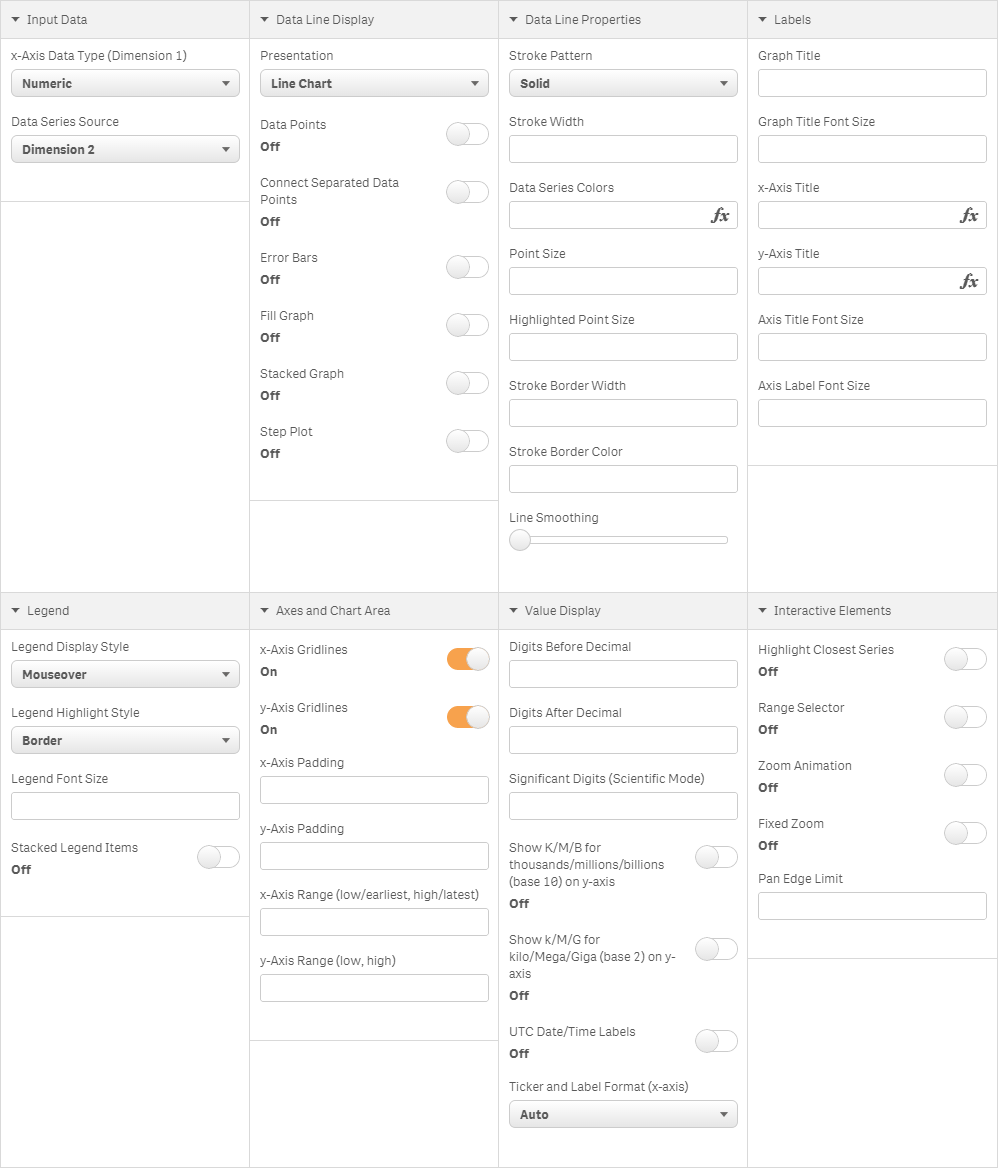
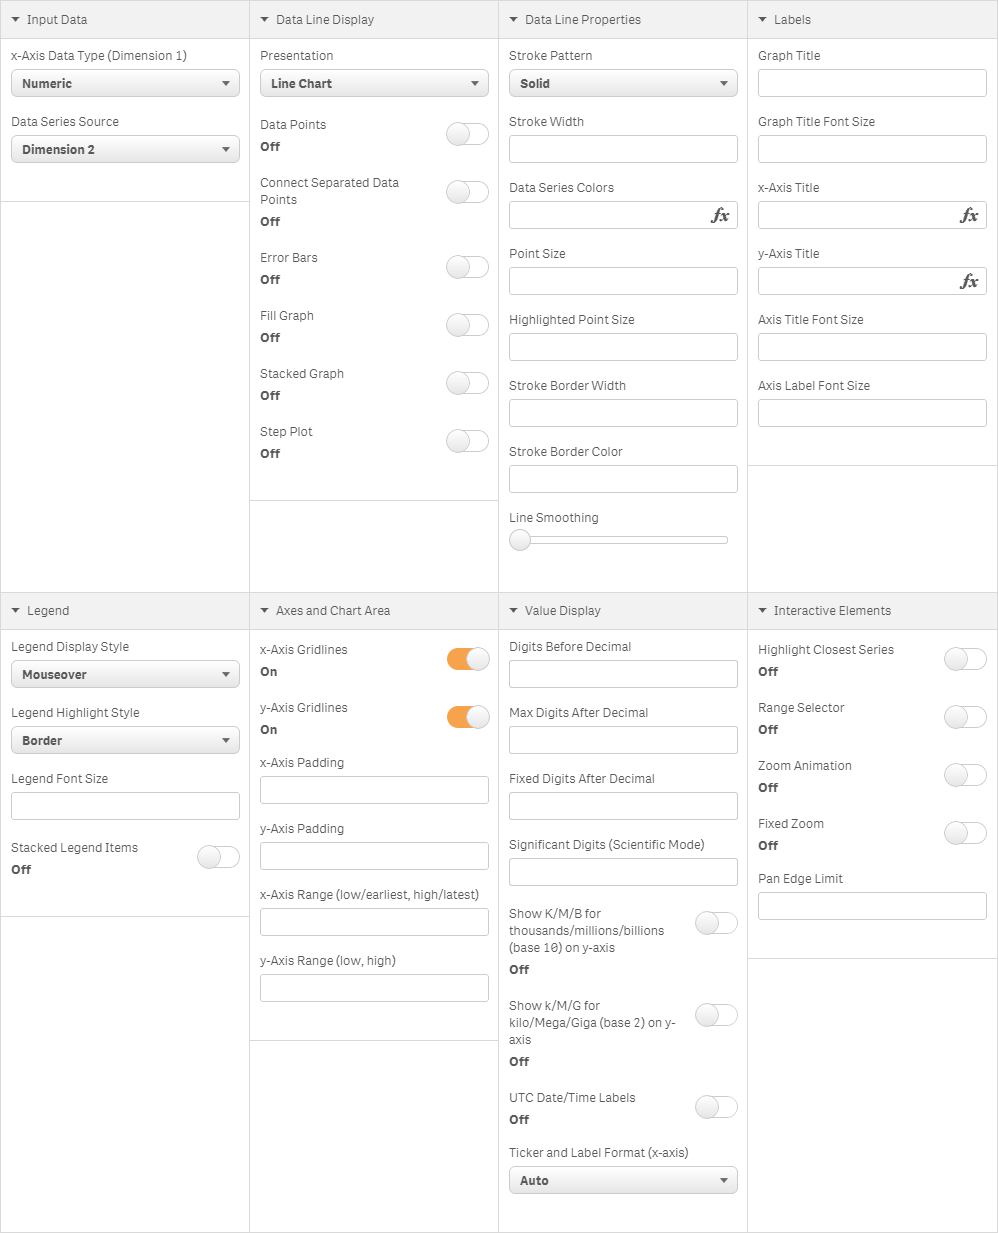
Updated screenshots
Updated screenshots of expanded properties panel

diff --git a/CHANGELOG.md b/CHANGELOG.md
@@ -3,9 +3,10 @@ All notable changes to dygraphs for Qlik Sense will be documented in this file.
 
 ### \[2.2\] - 2016-02-15
 #### Added
-- Boxplot Chart presentation option for data line display.
+- Boxplot Chart presentation option for data line display
 - Data plotting function for box-and-whisker charts (custom-plotters.js)
 - Calculation of 5-number summary and remapping of hypercube data (qs-dygraphs.globals.js)
+- Updated documentation and screenshots of properties panel
 
 ### \[2.1\] - 2015-12-27
 #### Added
